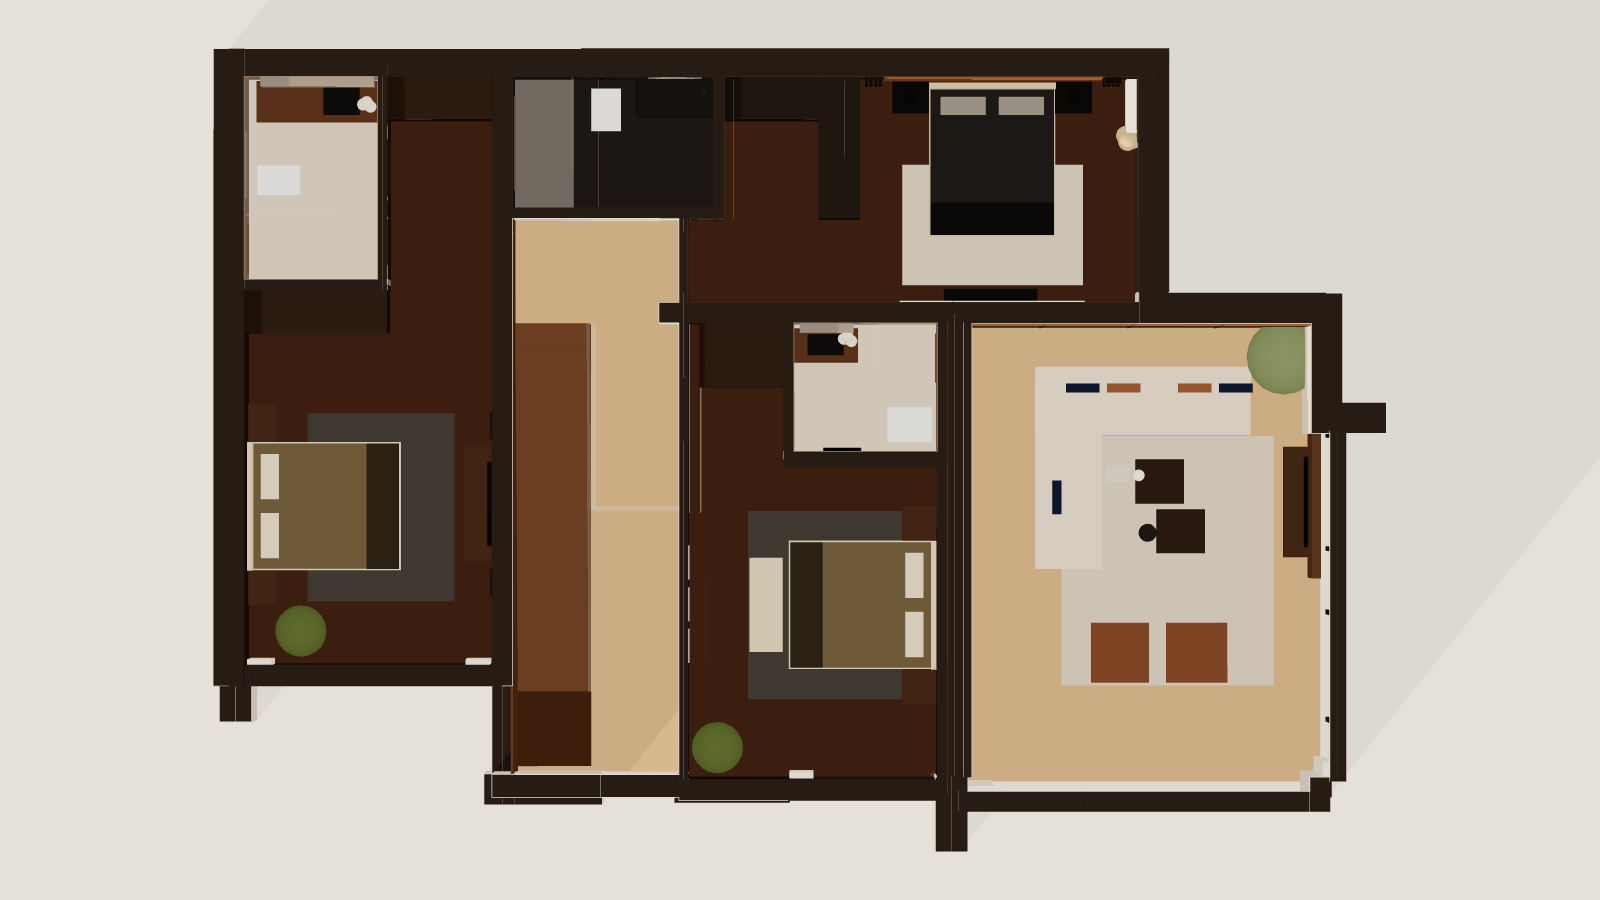
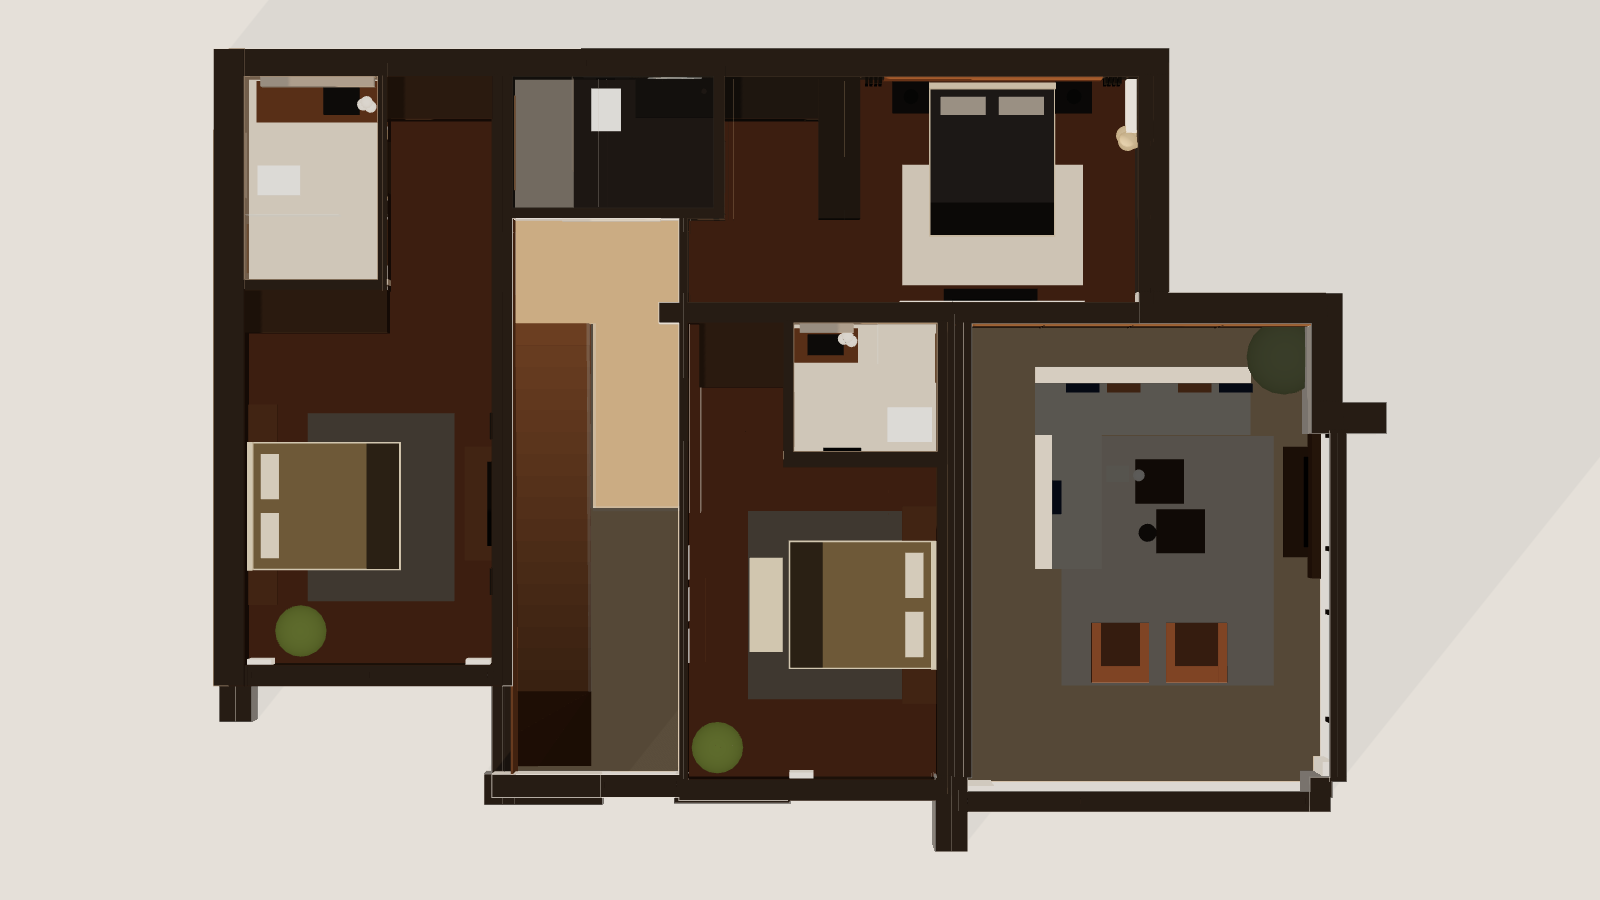
FP3D first floor: height-shaded guide so the stair opening and the void over the entrance read as open to below
Claude-Session: https://claude.ai/code/session_01ETmbUPpvTDduvuaab54EVi

Changed region(s): [[0.5938, 0.3422, 0.8438, 0.8711], [0.3125, 0.5289, 0.4375, 0.8711], [0.1562, 0.7778, 0.1875, 0.8089]]

diff --git a/luxury-render/engine/depth_shade.py b/luxury-render/engine/depth_shade.py
@@ -1,0 +1,54 @@
+"""Top-down plans of an upper floor: darken everything below that floor by its height, from the surface-ID pass.
+
+Through the stair hole and the double-height voids the camera sees the floor below. In a flat-lit guide that floor
+has the same colour as the upper floor, so the opening does not read. Shading by real height fixes it: the upper floor
+stays at full brightness, the lower floor is dimmed, and each stair tread gets a brightness set by its own height,
+so the flight visibly climbs to the landing.
+usage: python3 engine/depth_shade.py plans/<plan> output/<plan>/<CAM>/blockout [floor_z]
+"""
+import json, sys
+import numpy as np
+from PIL import Image
+
+plan_dir, bdir = sys.argv[1], sys.argv[2]
+FZ = float(sys.argv[3]) if len(sys.argv) > 3 else 310.0
+LOW = 0.42                                           # brightness of the lower floor
+
+plan = json.load(open(f"{plan_dir}/plan.json"))
+legend = json.load(open(f"{bdir}/passes.json"))["legend"]
+
+
+def top(d):
+    if "z" in d: return d["z"][1]
+    if "h" in d and "z0" in d: return d["z0"] + d["h"]
+    if "center" in d and len(d["center"]) > 2: return d["center"][2] + d.get("r", d.get("R", 0))
+    if "p0" in d: return max(d["p0"][2], d["p1"][2])
+    return None
+
+
+ztop = {d["id"]: top(d) for d in plan["furniture"] + plan["design"]}
+
+
+def factor(e):
+    i, k = e["id"], e["kind"]
+    if i.startswith(("U_", "FLOOR_U_")) or i.endswith("_cap"): return 1.0
+    if k == "floor": return LOW
+    if i == "F_stair_balustrade": return 0.8
+    if i.startswith("F_stair_"):
+        return LOW + (1 - LOW) * min(ztop.get(i) or 0, FZ) / FZ
+    if k in ("wall", "frame"): return 0.6               # side faces of walls seen down the void
+    z = ztop.get(i)
+    if z is None: return 1.0
+    return 1.0 if z >= FZ - 10 else LOW
+
+
+sid = np.asarray(Image.open(f"{bdir}/surface_ids.png").convert("RGB")).astype(np.int32)
+key = (sid[..., 0] << 16) | (sid[..., 1] << 8) | sid[..., 2]
+f = np.ones(key.shape, np.float32)
+for e in legend:
+    r, g, b = e["rgb"]
+    f[key == ((r << 16) | (g << 8) | b)] = factor(e)
+for name in ("guide.png", "guide_lined.png"):
+    im = np.asarray(Image.open(f"{bdir}/{name}").convert("RGB")).astype(np.float32)
+    Image.fromarray(np.clip(im * f[..., None], 0, 255).astype(np.uint8)).save(f"{bdir}/{name}")
+print("shaded", bdir, "lower-floor pixels:", int((f < 0.99).sum()))
